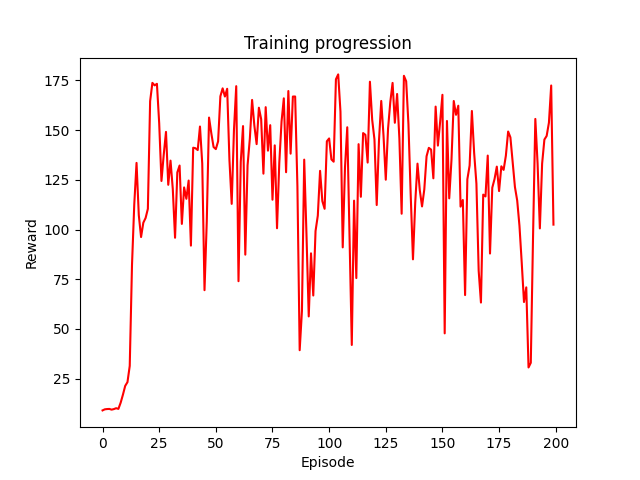
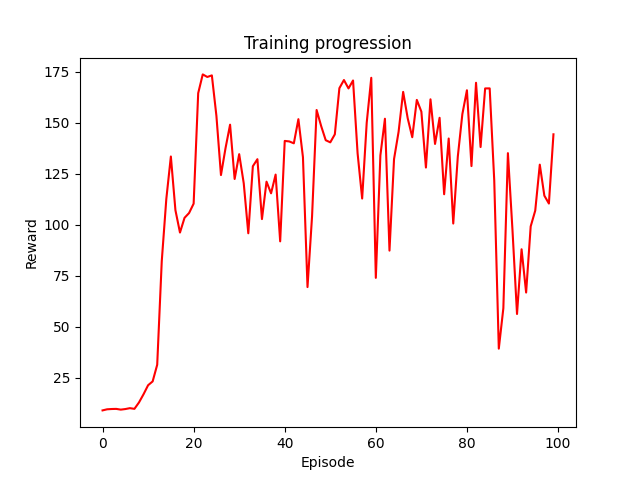
integrated training target into main training step

diff --git a/RL-demo-code.py b/RL-demo-code.py
@@ -85,7 +85,8 @@ def train_step(optimising_net, target_net, memory, optimser, ep_no):
     loss.backward()
     optimser.step()
 
-    if ep_no % 50:
+    # at regular intervals (every 50 episodes) bring target network up to date with optimising network
+    if ep_no % 50 == 0 and ep != 0:
         target_net.load_state_dict(optimising_net.state_dict())
 
 
@@ -119,7 +120,7 @@ target_network = Network(state_space_size, action_space_size)
 target_network.load_state_dict(optimising_network.state_dict())
 replay_buffer = Buffer()
 
-no_eps = 10000
+no_eps = 5000
 marking = []
 means = []
 printing_rate = 50
@@ -135,7 +136,7 @@ for ep in range(no_eps):
     while True:
         time_step += 1
         action = optimising_network.step(torch.from_numpy(state).float().unsqueeze(0), epsilon)
-        successor, reward, terminal, info = env.step(action)
+        successor, reward, terminal, _ = env.step(action)
 
         terminal_mask = 0.0 if terminal else 1.0
         transition = (state, action, reward/100.0, successor, terminal_mask)
